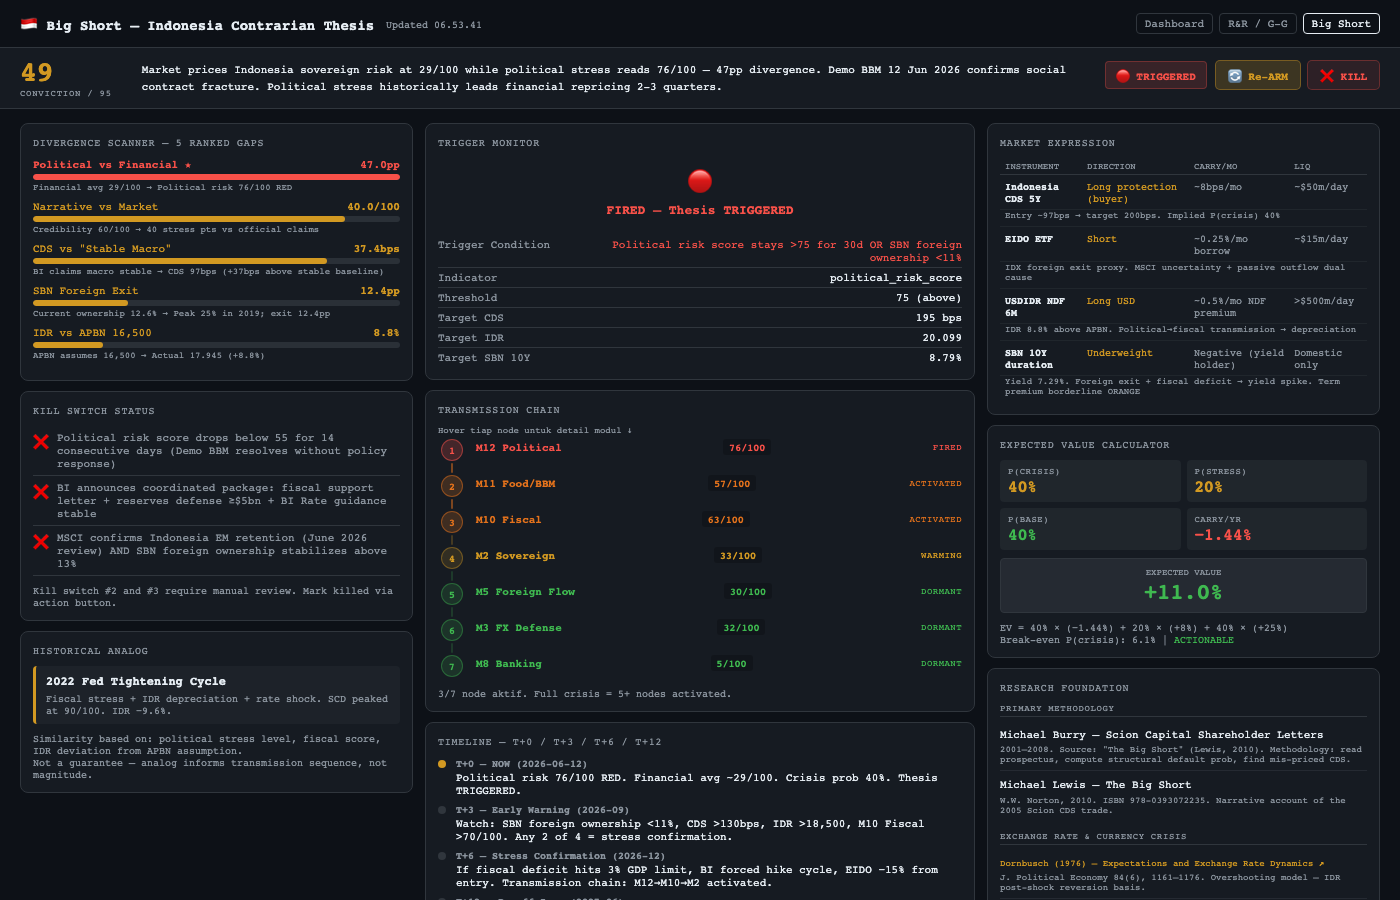
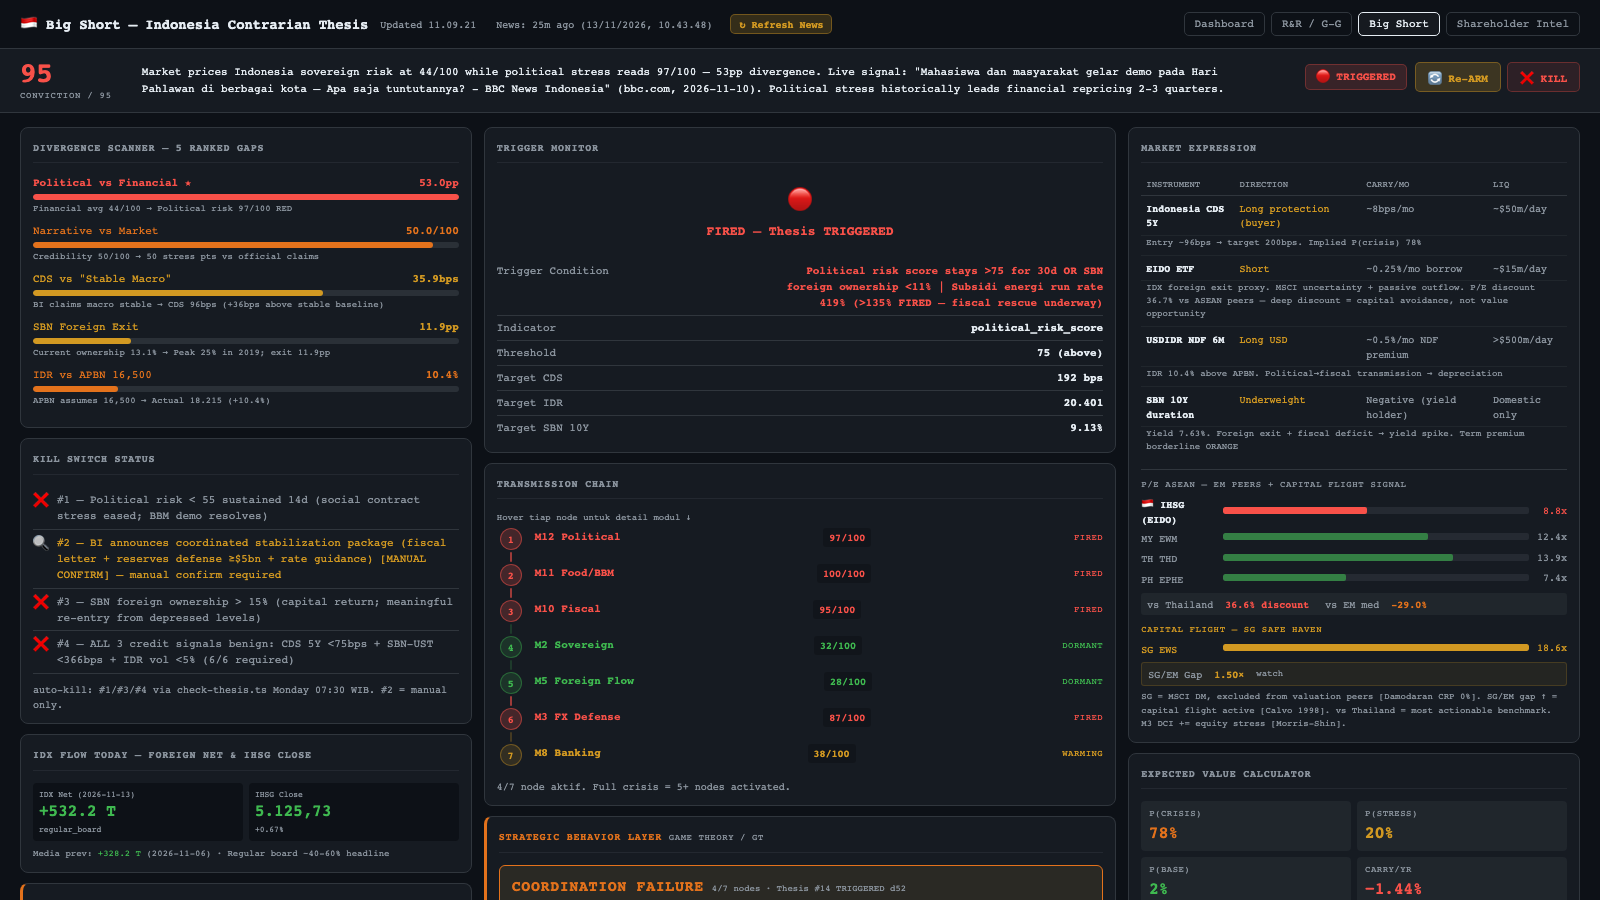
docs(readme): Nov 13 run-2 baseline — SCD 74% RED, /ownership screenshot added
Baseline: SCD 74% RED (↑3pp dari 71%). 5 RED modules: M3 FX Defense 87/100
(CONFIDENCE GATE ATTACK ZONE, shadow rate implied 19,490), M10 Fiscal 95/100
(Calvo trap 4.19pp), M11 Domestic 100/100, M12 Political 97/100, M4 Commodity
74/100 ($4.5 dari Bahlil $100). CDS 95.9bps (relief tipis dari 100bps), USDIDR
18,215, SBN 7.630%. Thesis #14 TRIGGERED hari ke-52. M5 Foreign Flow 28 GREEN
(Bryant ETF peak period lewat; AM BUYING SWF NEUTRAL).

Screenshots: refresh all 4 pages (dashboard-main, rr, bs) + add dashboard-ownership
(new). /ownership table row added to README with colspan=2.

diff --git a/README.md b/README.md
@@ -781,7 +781,7 @@ bash env-check.sh                        # live ping semua API key di .env
 | M9 Market | `ihsg_pe_ratio`, `idx_advance_decline_ratio` | >30d / >14d |
 | M13 ULN | `indonesia_external_debt_bn`, `uln_dsr_pct`, `uln_shortterm_pct` | >180d / >730d / >730d |
 
-Threshold lengkap di `src/tools/macro/freshness.ts`. **📌 Event Nov 12 2026:** ASEAN Joint Oil Stockpile — Indonesia (PT Interport Mandiri Utama) + Thailand = storage hubs; PNOC-EC (Filipina) MOU signing **14 Nov 2026** di ASEAN Summit Manila; operasional early 2027; EU ticket system; diprakarsai ERIA (Japan METI). **IRONI HARI YANG SAMA**: Dirut Pertamina minta maaf DPR — BBM langka **11 provinsi** (14:23 WIB) vs ASEAN hub announcement (16:20 WIB). Root cause BBM langka: Solar B50 gap Rp13,629/L → shift ke subsidi masif → Pertamina volume overrun. M6 narrative gap terbesar Nov 12. Full analysis: `docs/ASEAN_OIL_STOCKPILE_NOV12_2026.md`. Morning check baseline Nov 13 2026 (pagi): SCD **71% 🔴 RED** · M11 Domestic Pressure **100/100 🔴** (5 spike: beras/cabai/daging/gula; Pertalite gap Rp5,394/L; Solar B50 gap Rp13,957/L) · M10 Fiscal **95/100 🔴** (subsidi 419%, Calvo 4.19pp, interest/revenue 20.5%) · M12 Political **95/100 🔴** (PolEcon shift TRAPPED→RISKY HIKE; BBM langka 11 prov; PHK YTD 90k) · **M3 FX Defense 75/100 🔴** (USDIDR 18,225 +162 dari kemarin; Obstfeld 64/100; shadow rate implied 19,447; CONFIDENCE GATE ATTACK ZONE) · M4 Commodity **74/100 🔴** (Brent $95.9 — $4.1/bbl dari threshold $100) · **M7 ASEAN RV 26/100 🟠** (UIP UNATTRACTIVE baru firing: real carry −2.42pp) · M6 Narrative **48/100 🟡** · M5 Foreign Flow **28/100 🟢** · M9 Market **0/100 🟢** (IHSG 5,251 A/D 2.43) · Synthetic Stability **100/100** ACTIVE TRANSMISSION · **Thesis #14** hari ke-52 · CDS **100.0bps** (100bps crossed) · USDIDR **18,225** · SBN **7.630%** ·  5 RED modul (M3 masuk RED dari ORANGE). Prev baseline Nov 12 2026 (sore, post-SAIR): SCD **68% 🟠 ORANGE** · M11 Domestic Pressure **100/100 🔴** (5 komoditas spike: beras/cabai/daging/gula; Pertalite gap Rp4,909/L; Solar B50 gap Rp13,629/L) · M12 Political Risk **98/100 🔴** (BBM langka Sultra+Kaltim, buruh Jateng, PHK YTD 90k) · M10 Fiscal **95/100 🔴** (subsidi run-rate 419%, deficit 4.23% GDP, Calvo trap 4.19pp, interest/revenue 20.5%) · M4 Commodity **74/100 🔴** (Brent $93.7/bbl; CPO bad record deleted → score corrected dari 92) · M3 FX Defense **59/100 🟠** (USDIDR 18,063; CONFIDENCE GATE ATTACK ZONE; Obstfeld escape elevated) · M5 Foreign Flow **28/100 🟢** (P(downgrade)=94% P(reversal)=6%; IHSG floor 3,600; AM BUYING SWF NEUTRAL dark 95%) · M9 Market **0/100 🟢** (IHSG 5,251 A/D 2.43; Cascade CLEAR) · Synthetic Stability **100/100** ACTIVE TRANSMISSION · **Thesis #14 TRIGGERED** hari ke-51 · CDS 98.6bps · USDIDR 18,063 · SBN 7.630% · **🚨 MSCI SAIR Nov 12 CONFIRMED**: BRPT dicoret dari Global Standard (full exit) · BRMS turun ke Small Cap · 7 saham Small Cap dicoret (AVIA CTRA MTEL EMTK JSMR RAJA WIFI) · total 9 saham · efektif **30 Nov 2026** · MSCI language: *"expects to proceed with reclassification"* → P(reversal) dikunci **6%** (env override) · `MSCI_SAIR_DATE=2027-05-01` `MSCI_REVIEW_DATE=2027-04-30` updated · MSCI_NOV2026_REBALANCING_OUTFLOW_USD_BN=0.27 (est. $250-300mn 30 Nov). IDX closing baseline Nov 10 2026 (sore): IHSG **5,126** (+1.49% dari 5,050) · IDX foreign flow **+126 IDR bn** (net beli tipis) · **Demo Hari Pahlawan** — 74 aksi Jakarta + Surabaya (BEM PTMA #PulihkanIndonesia: copot Raja Juli, hentikan MBG, korupsi) + Gerakan Pembela Konstitusi (impeach Gibran) · market resilient, demo tidak ganggu IHSG · **MSCI November Review besok 11 Nov** (~23:00 CET / dini hari 12 Nov WIB) — BRMS+BRPT threatened; Standalone consultation final Jun 2027; market wait-and-see · A/D positif, Thesis #14 hari ke-49 · Health-check baseline Nov 10 2026 (pagi): SCD **64% 🟠 ORANGE** (-14pp dari Nov 9 sore 78% RED — Brent turun $97.3→$91.6 main driver; IDX net buy +126T signal pembalikan parsial) · **54 fresh | 1 aging | 1 stale | 0 critical** · M4 Commodity **92/100 🔴** (Brent $91.6/bbl, CPO MYR 1,190, coal ETF $39.5 — masih di atas threshold stres) · M12 Political Risk **97/100 🔴** (trapped PolEcon, PHK 1,100, unrest score 53/100) · M10 Fiscal **95/100 🔴** (subsidi run-rate 419%, deficit 4.23% GDP, Calvo trap +2.22pp, interest/revenue 20.5%) · M3 FX Defense **54/100 🟠** (SRBI burden 36.5% cadev, Obstfeld escape ELEVATED — COORDINATED RESPONSE PARTIAL detected: -4pts) · M11 Domestic **58/100 🟠** (Pertalite gap Rp4,558/L, Solar B50 gap Rp7,136/L) · M5 Foreign Flow **47/100 🟡** (MSCI SAIR T-2d 🔴, Bryant phase T+26d peak — P(downgrade)=86%, P(reversal)=14%) · M6 Narrative **48/100 🟡** · M8 Banking **48/100 🟡** (HIMBARA AT1 76.3% par — B-P spiral 2/3) · M2 Sovereign **34/100 🟡** (CDS 100.5bps, term premium 1.94%) · M7 ASEAN RV **35/100 🟡** (IHSG P/E 37.7% discount vs Thailand — MSCI coordination risk) · M1 BoP **25/100 🟢** (trade balance +$3.36bn, CAD -3.3% GDP) · M13 ULN **12/100 🟢** · M9 Market **0/100 🟢** (A/D 3.8 bullish, IDX foreign net buy +126.47T) · Regime **10/100 🟢** · **Thesis #14 TRIGGERED** (armed Sep 22, hari ke-49) · CDS **100.5bps** (target 164bps, +63.5% to go) · USDIDR **18,050** (target 20,020, +10.9% to go) · SBN **7.693%** (target 8.62%, +92.7bps to go) · MSCI SAIR Nov 12 T-2d 🔴 IMMINENT · `MSCI_SAIR_DATE` wajib update ke 2027-05-XX setelah event · lihat `doc/msci-sair-nov12-checklist.md`. **Trade monitoring upgrade**: BPS siaran pers via Exa (primary) + TE cross-validation guard (prevents period-mismatch artifacts) + exports_bn freshness gate + Trade Trend panel di `/rr` dashboard + `trade_balance_bn` di Chart.js.
+Morning check baseline Nov 13 2026 (run 2, ~11:00 WIB): SCD **74% 🔴 RED** ↑ dari 71% · M11 Domestic Pressure **100/100 🔴** (5 spike: beras/cabai/daging/gula; Pertalite gap Rp5,316/L; Solar B50 gap Rp13,917/L) · M12 Political Risk **97/100 🔴** (PolEcon TRAPPED; BBM langka; PHK YTD 90k; unrest 56/100) · M10 Fiscal **95/100 🔴** (subsidi run-rate 419%, deficit 4.23% GDP, Calvo trap 4.19pp, interest/revenue 20.5%) · **M3 FX Defense 87/100 🔴** ↑ dari 75 (USDIDR 18,215; CONFIDENCE GATE ATTACK ZONE active; Obstfeld escape 64/100; shadow rate implied USDIDR 19,490; SRBI burden 36% cadev; Morris-Shin equity discount 36.6% → DCI +10pts) · M4 Commodity **74/100 🔴** (Brent $95.5 — $4.5/bbl dari Bahlil $100 threshold; Coal DMO compliance 50%; B50 quota 19.6M kL) · M6 Narrative **50/100 🟡** (USDIDR 10.5% vs APBN; Brent +37% vs APBN) · M8 Banking **38/100 🟡** (HIMBARA AT1 88.4% par; Minsky FIH SPECULATIVE 37/100; B-P spiral 1/3; GWM cut 9%→7% 21d ago) · M1 BoP **33/100 🟡** (CAD -3.3% GDP — R&R 3% danger zone; trade balance +$3.4bn) · M2 Sovereign **32/100 🟢** (CDS **95.9bps** ↓ dari 100bps kemarin — relief teknis; SBN 7.630%; term premium 1.88%) · M5 Foreign Flow **28/100 🟢** ↓ dari 53 ORANGE (Bryant T+29d ETF mechanics peak period lewat; AM BUYING SWF NEUTRAL; dark ratio 95%; IHSG floor est. 3,545; P(downgrade) 94%) · M7 ASEAN RV **26/100 🟡** (UIP real carry −0.47pp; IHSG P/E 36.6% discount Thailand) · M13 ULN **12/100 🟢** · M9 Market **0/100 🟢** (IHSG 5,297 A/D 3.00; Cascade CLEAR; circuit breaker 28d ago) · Synthetic Stability **100/100** ACTIVE TRANSMISSION · **Thesis #14 TRIGGERED** hari ke-52 · CDS **95.9bps** (target 164bps, +71% to go) · USDIDR **18,215** (target 20,020, +9.9% to go) · SBN **7.630%** (target 8.62%, +99bps to go) · Kill switches: semua inactive · 5 RED modules. Threshold lengkap di `src/tools/macro/freshness.ts`. **📌 Event Nov 12 2026:** ASEAN Joint Oil Stockpile — Indonesia (PT Interport Mandiri Utama) + Thailand = storage hubs; PNOC-EC (Filipina) MOU signing **14 Nov 2026** di ASEAN Summit Manila; operasional early 2027; EU ticket system; diprakarsai ERIA (Japan METI). **IRONI HARI YANG SAMA**: Dirut Pertamina minta maaf DPR — BBM langka **11 provinsi** (14:23 WIB) vs ASEAN hub announcement (16:20 WIB). Root cause BBM langka: Solar B50 gap Rp13,629/L → shift ke subsidi masif → Pertamina volume overrun. M6 narrative gap terbesar Nov 12. Full analysis: `docs/ASEAN_OIL_STOCKPILE_NOV12_2026.md`. Morning check baseline Nov 13 2026 (pagi): SCD **71% 🔴 RED** · M11 Domestic Pressure **100/100 🔴** (5 spike: beras/cabai/daging/gula; Pertalite gap Rp5,394/L; Solar B50 gap Rp13,957/L) · M10 Fiscal **95/100 🔴** (subsidi 419%, Calvo 4.19pp, interest/revenue 20.5%) · M12 Political **95/100 🔴** (PolEcon shift TRAPPED→RISKY HIKE; BBM langka 11 prov; PHK YTD 90k) · **M3 FX Defense 75/100 🔴** (USDIDR 18,225 +162 dari kemarin; Obstfeld 64/100; shadow rate implied 19,447; CONFIDENCE GATE ATTACK ZONE) · M4 Commodity **74/100 🔴** (Brent $95.9 — $4.1/bbl dari threshold $100) · **M7 ASEAN RV 26/100 🟠** (UIP UNATTRACTIVE baru firing: real carry −2.42pp) · M6 Narrative **48/100 🟡** · M5 Foreign Flow **28/100 🟢** · M9 Market **0/100 🟢** (IHSG 5,251 A/D 2.43) · Synthetic Stability **100/100** ACTIVE TRANSMISSION · **Thesis #14** hari ke-52 · CDS **100.0bps** (100bps crossed) · USDIDR **18,225** · SBN **7.630%** ·  5 RED modul (M3 masuk RED dari ORANGE). Prev baseline Nov 12 2026 (sore, post-SAIR): SCD **68% 🟠 ORANGE** · M11 Domestic Pressure **100/100 🔴** (5 komoditas spike: beras/cabai/daging/gula; Pertalite gap Rp4,909/L; Solar B50 gap Rp13,629/L) · M12 Political Risk **98/100 🔴** (BBM langka Sultra+Kaltim, buruh Jateng, PHK YTD 90k) · M10 Fiscal **95/100 🔴** (subsidi run-rate 419%, deficit 4.23% GDP, Calvo trap 4.19pp, interest/revenue 20.5%) · M4 Commodity **74/100 🔴** (Brent $93.7/bbl; CPO bad record deleted → score corrected dari 92) · M3 FX Defense **59/100 🟠** (USDIDR 18,063; CONFIDENCE GATE ATTACK ZONE; Obstfeld escape elevated) · M5 Foreign Flow **28/100 🟢** (P(downgrade)=94% P(reversal)=6%; IHSG floor 3,600; AM BUYING SWF NEUTRAL dark 95%) · M9 Market **0/100 🟢** (IHSG 5,251 A/D 2.43; Cascade CLEAR) · Synthetic Stability **100/100** ACTIVE TRANSMISSION · **Thesis #14 TRIGGERED** hari ke-51 · CDS 98.6bps · USDIDR 18,063 · SBN 7.630% · **🚨 MSCI SAIR Nov 12 CONFIRMED**: BRPT dicoret dari Global Standard (full exit) · BRMS turun ke Small Cap · 7 saham Small Cap dicoret (AVIA CTRA MTEL EMTK JSMR RAJA WIFI) · total 9 saham · efektif **30 Nov 2026** · MSCI language: *"expects to proceed with reclassification"* → P(reversal) dikunci **6%** (env override) · `MSCI_SAIR_DATE=2027-05-01` `MSCI_REVIEW_DATE=2027-04-30` updated · MSCI_NOV2026_REBALANCING_OUTFLOW_USD_BN=0.27 (est. $250-300mn 30 Nov). IDX closing baseline Nov 10 2026 (sore): IHSG **5,126** (+1.49% dari 5,050) · IDX foreign flow **+126 IDR bn** (net beli tipis) · **Demo Hari Pahlawan** — 74 aksi Jakarta + Surabaya (BEM PTMA #PulihkanIndonesia: copot Raja Juli, hentikan MBG, korupsi) + Gerakan Pembela Konstitusi (impeach Gibran) · market resilient, demo tidak ganggu IHSG · **MSCI November Review besok 11 Nov** (~23:00 CET / dini hari 12 Nov WIB) — BRMS+BRPT threatened; Standalone consultation final Jun 2027; market wait-and-see · A/D positif, Thesis #14 hari ke-49 · Health-check baseline Nov 10 2026 (pagi): SCD **64% 🟠 ORANGE** (-14pp dari Nov 9 sore 78% RED — Brent turun $97.3→$91.6 main driver; IDX net buy +126T signal pembalikan parsial) · **54 fresh | 1 aging | 1 stale | 0 critical** · M4 Commodity **92/100 🔴** (Brent $91.6/bbl, CPO MYR 1,190, coal ETF $39.5 — masih di atas threshold stres) · M12 Political Risk **97/100 🔴** (trapped PolEcon, PHK 1,100, unrest score 53/100) · M10 Fiscal **95/100 🔴** (subsidi run-rate 419%, deficit 4.23% GDP, Calvo trap +2.22pp, interest/revenue 20.5%) · M3 FX Defense **54/100 🟠** (SRBI burden 36.5% cadev, Obstfeld escape ELEVATED — COORDINATED RESPONSE PARTIAL detected: -4pts) · M11 Domestic **58/100 🟠** (Pertalite gap Rp4,558/L, Solar B50 gap Rp7,136/L) · M5 Foreign Flow **47/100 🟡** (MSCI SAIR T-2d 🔴, Bryant phase T+26d peak — P(downgrade)=86%, P(reversal)=14%) · M6 Narrative **48/100 🟡** · M8 Banking **48/100 🟡** (HIMBARA AT1 76.3% par — B-P spiral 2/3) · M2 Sovereign **34/100 🟡** (CDS 100.5bps, term premium 1.94%) · M7 ASEAN RV **35/100 🟡** (IHSG P/E 37.7% discount vs Thailand — MSCI coordination risk) · M1 BoP **25/100 🟢** (trade balance +$3.36bn, CAD -3.3% GDP) · M13 ULN **12/100 🟢** · M9 Market **0/100 🟢** (A/D 3.8 bullish, IDX foreign net buy +126.47T) · Regime **10/100 🟢** · **Thesis #14 TRIGGERED** (armed Sep 22, hari ke-49) · CDS **100.5bps** (target 164bps, +63.5% to go) · USDIDR **18,050** (target 20,020, +10.9% to go) · SBN **7.693%** (target 8.62%, +92.7bps to go) · MSCI SAIR Nov 12 T-2d 🔴 IMMINENT · `MSCI_SAIR_DATE` wajib update ke 2027-05-XX setelah event · lihat `doc/msci-sair-nov12-checklist.md`. **Trade monitoring upgrade**: BPS siaran pers via Exa (primary) + TE cross-validation guard (prevents period-mismatch artifacts) + exports_bn freshness gate + Trade Trend panel di `/rr` dashboard + `trade_balance_bn` di Chart.js.
 
 ---
 
@@ -814,6 +814,9 @@ bun scripts/sync-ksei-ownership.ts --dry-run   # print plan only
 <tr>
 <td width="50%"><img src="docs/screenshots/dashboard-rr.png" width="100%" alt="R&R Framework Monitor"><br><sub><b>/rr</b> — R&R / Greenspan-Guidotti: 7 live signals</sub></td>
 <td width="50%"><img src="docs/screenshots/dashboard-bs.png" width="100%" alt="Big Short Thesis"><br><sub><b>/bs</b> — Big Short Thesis: divergence scanner + thesis tracker</sub></td>
+</tr>
+<tr>
+<td colspan="2"><img src="docs/screenshots/dashboard-ownership.png" width="100%" alt="IDX Shareholder Intelligence"><br><sub><b>/ownership</b> — KSEI &gt;1% holders · 8 tabs: By Emiten · By Investor · Foreign Heat · Anomalies · Network Graph · Concentration · Wash Screener · Institutions · 64,597 rows · 962 emiten · 5,819 investors</sub></td>
 </tr>
 </table>
 
